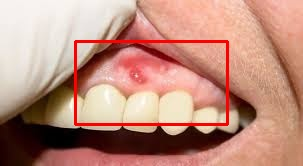
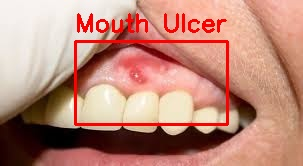
Removed unwanted functions

Changed region(s): [[0.2376, 0.0602, 0.505, 0.2108], [0.5347, 0.0602, 0.7426, 0.2108]]

diff --git a/app.py b/app.py
@@ -1,7 +1,7 @@
 import os
-from flask import Flask, request, send_file, jsonify
-from predict_disease import detect_disease  # Import function from predict_disease.py
-from flask import send_from_directory
+from flask import Flask, request, send_file, jsonify, send_from_directory
+from predict_disease import detect_disease
+from dental_disease_model import DentalDiseaseModel  # ✅ Import model
 from remedies import get_remedy_links
 
 app = Flask(__name__)
@@ -10,6 +10,11 @@ UPLOAD_FOLDER = "uploads"
 PROCESSED_FOLDER = "processed"
 os.makedirs(UPLOAD_FOLDER, exist_ok=True)
 os.makedirs(PROCESSED_FOLDER, exist_ok=True)
+
+# ✅ Initialize the model
+dataset_paths = ["D:/Dental diseases/Training dataset"]  # ✅ Update dataset path
+model = DentalDiseaseModel(dataset_paths)  # ✅ Pass dataset_paths to the model
+model.load_model()  # ✅ Load the model
 
 @app.route('/processed/<filename>')
 def serve_processed_image(filename):
@@ -30,7 +35,10 @@ def detect():
 
     # Process image
     processed_img_path = os.path.join(PROCESSED_FOLDER, f"processed_{file.filename}")
-    label = detect_disease(img_path, processed_img_path)  # Call function from predict_disease.py
+    label = detect_disease(img_path, processed_img_path, model)  # ✅ Pass the model
+
+    if label is None:
+        return jsonify({"error": "Failed to detect disease"}), 500
 
     print("✅ Detected Disease:", label)
     print("✅ Processed Image Path:", processed_img_path)
@@ -42,7 +50,7 @@ def detect():
     # Fetch remedy links
     remedy_links = get_remedy_links([label]) if label else []
 
-    SERVER_IP = "192.168.1.40"  # ✅ Use your actual local IP
+    SERVER_IP = "192.168.0.7"  # ✅ Use your actual local IP
 
     response = {
         "processed_image_url": f"http://{SERVER_IP}:5000/processed/processed_{file.filename}",
@@ -54,4 +62,4 @@ def detect():
     return jsonify(response)
 
 if __name__ == '__main__':
-    app.run(host="192.168.1.40", port=5000, debug=True)
+    app.run(host="192.168.0.7", port=5000, debug=True)

diff --git a/predict_disease.py b/predict_disease.py
@@ -13,16 +13,18 @@ labels_dict = {
     5: "Gum Disease"
 }
 
-def detect_disease(img_path, model):
-    """ Predicts dental disease and displays result with bounding box. """
+
+def detect_disease(img_path, processed_img_path, model):
+    """ Predicts dental disease and saves result with bounding box. """
+
     if not os.path.exists(img_path):
-        print(f"Error: Image not found - {img_path}")
-        return
+        print(f"❌ Error: Image not found - {img_path}")
+        return None
 
     img = cv2.imread(img_path)
     if img is None:
-        print(f"Error: Unable to load image {img_path}")
-        return
+        print(f"❌ Error: Unable to load image {img_path}")
+        return None
 
     prediction = model.predict(img)
     label = labels_dict.get(prediction, "Unknown")
@@ -37,20 +39,14 @@ def detect_disease(img_path, model):
     cv2.putText(img, label, (start_point[0], start_point[1] - 10),
                 cv2.FONT_HERSHEY_SIMPLEX, 0.8, color, 2)
 
-    # Display result
-    cv2.imshow('Dental Disease Detection', img)
-    print(f"Predicted: {label}")
-    cv2.waitKey(2000)  # Show for 2 seconds
-    cv2.destroyAllWindows()
+    # Save processed image
+    cv2.imwrite(processed_img_path, img)
+
+    print(f"✅ Predicted: {label}")
+    return label  # Return the predicted label
+
 
 # Load model
-model = DentalDiseaseModel()
+dataset_paths = ["D:/Dental diseases/Training dataset"]  # ✅ Update dataset path
+model = DentalDiseaseModel(dataset_paths)  # ✅ Pass dataset_paths to the model
 model.load_model()
-
-# Test dataset path
-test_dir = r"D:\Dental diseases\Test dataset - Final"
-
-# Run test on multiple images
-for img_name in os.listdir(test_dir):
-    img_path = os.path.join(test_dir, img_name)
-    detect_disease(img_path, model)
